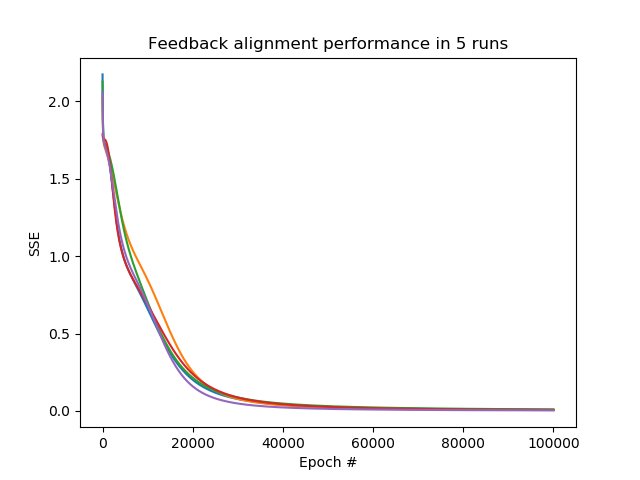
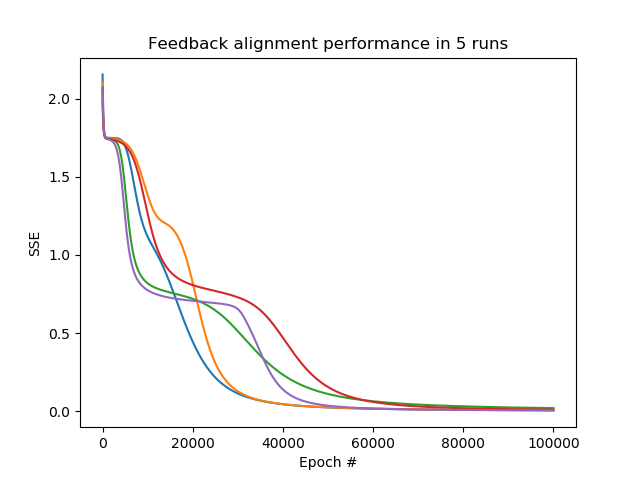
feedback alignment

diff --git a/neural_nets/feedback_alignment.py b/neural_nets/feedback_alignment.py
@@ -72,7 +72,16 @@ if __name__ == "__main__":
     parser.add_argument(
         "--num_epochs", help="(int) number of training epochs", type=int, default=100000
     )
+    parser.add_argument(
+        "--l_rate",
+        help="(string) learning rate",
+        type=str,
+        default="0.01",
+    )
     args = parser.parse_args()
+    save_dir = args.save_dir
+    num_epochs = args.num_epochs
+    l_rate = float(args.l_rate)
 
     # data
     inputs = np.asarray([[0, 0, 1], [0, 1, 1], [1, 0, 1], [1, 1, 1]])
@@ -86,16 +95,16 @@ if __name__ == "__main__":
         print("\nRun # {}".format(r))
         es = []
         # create network for feedback alignment training
-        net = FeedbackAlignment([np.shape(inputs)[1], 10, np.shape(outputs)[1]], activation="sigmoid")
-
-        for e in range(args.num_epochs):
-            _, err = net.training_step(inputs, outputs)
+        fa_net = FeedbackAlignment([np.shape(inputs)[1], 10, 5, np.shape(outputs)[1]], activation="sigmoid", learning_rate=l_rate)
+        #bp_net =
+        for e in range(num_epochs):
+            _, err = fa_net.training_step(inputs, outputs)
             if e%5000 == 0:
                 print("Error in epoch {}: {}".format(e, err))
             es.append(err)
 
         # final fwd ppass
-        print("Outputs\n", net.forward(inputs)[-1])
+        print("Outputs\n", fa_net.forward(inputs)[-1])
 
         # plot
         plt.plot(es)
@@ -104,6 +113,6 @@ if __name__ == "__main__":
     plt.xlabel("Epoch #")
     plt.ylabel("SSE")
     plt.title("Feedback alignment performance in 5 runs")
-    if not os.path.exists(args.save_dir):
-        os.mkdir(args.save_dir)
-    plt.savefig(os.path.join(args.save_dir, "fba_performance.png"))
+    if not os.path.exists(save_dir):
+        os.mkdir(save_dir)
+    plt.savefig(os.path.join(save_dir, "fba_performance.png"))
